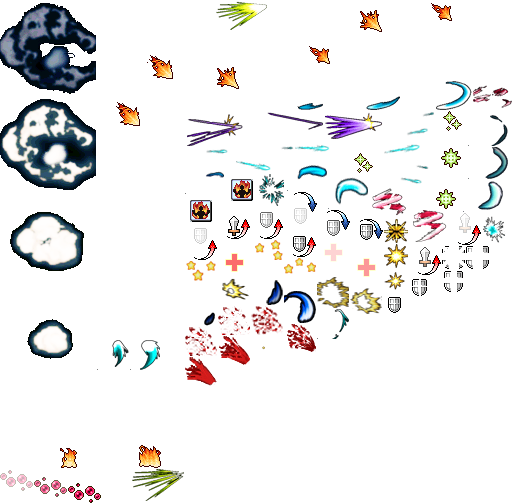
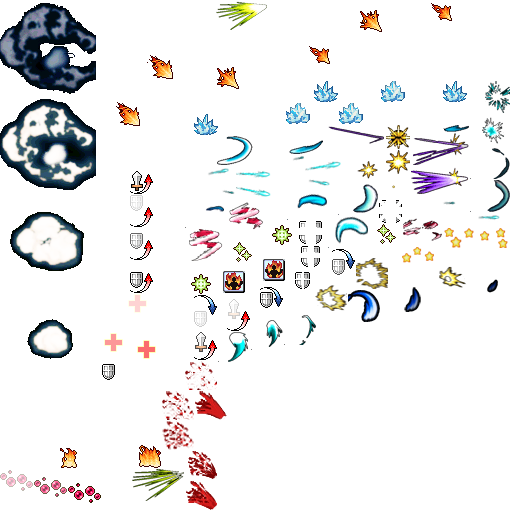
增加了冰锥推进

diff --git a/Gdx002/src/com/bsu/obj/Player.java b/Gdx002/src/com/bsu/obj/Player.java
@@ -56,7 +56,7 @@ public class Player {
 			RoleFactory rf = RoleFactory.getInstance();
 			playerRole.add(new Role(Role.Type.HERO,QUALITY.green,CLASSES.fighter,"测试人物",U.getRandom(100, -6, 6),8,10
 					,EquipFactory.getInstance().getWeaponByIdx(1),EquipFactory.getInstance().getArmorByIdx(1),
-					new SkillTree().getSkillTreeFixedSkill(65)
+					new SkillTree().getSkillTreeFixedSkill(66)
 					,GameTextureClass.getInstance().fc_photo));				//测试技能用
 			playerRole.add(rf.getFighter("fc", Role.Type.HERO, QUALITY.green,GameTextureClass.getInstance().fc_photo));
 //			playerRole.add(rf.getFighter("ss哈哈", Role.Type.HERO, QUALITY.blue,GameTextureClass.getInstance().zyc_photo));

diff --git a/Gdx002/src/com/bsu/tools/GameAnimationClass.java b/Gdx002/src/com/bsu/tools/GameAnimationClass.java
@@ -236,6 +236,14 @@ public class GameAnimationClass {
 			tr.add(texture_effect_skills.findRegion("stab",2));
 			tr.add(texture_effect_skills.findRegion("stab",3));
 			break;
+		case 66:
+			tr.add(texture_effect_skills.findRegion("s-66-",1));
+			tr.add(texture_effect_skills.findRegion("s-66-",2));
+			tr.add(texture_effect_skills.findRegion("s-66-",3));
+			tr.add(texture_effect_skills.findRegion("s-66-",4));
+			tr.add(texture_effect_skills.findRegion("s-66-",5));
+			tr.add(texture_effect_skills.findRegion("s-66-",6));
+			break;
 		default:
 			break;
 		}

diff --git a/Gdx002/src/com/bsu/make/SkillFactory.java b/Gdx002/src/com/bsu/make/SkillFactory.java
@@ -181,6 +181,7 @@ public class SkillFactory {
 		case 66:
 			skl = new Skill(i,"冰锥推进",QUALITY.purple,Type.p_damage,1.5f,0.3f,new CLASSES[]{CLASSES.wizard},"对前方横向3个格子所有敌人进行冰锥攻击",
 					new Vector2[] {new Vector2(1,0),new Vector2(2,0),new Vector2(3,0)});
+			skl.offset_ani_self = new Vector2(35,0);
 			break;
 		case 67:
 			skl = new Skill(i,"生命转移",QUALITY.purple,Type.f_shifhp,50f,30f,new CLASSES[]{CLASSES.cleric,CLASSES.sorcerer},"将前方3*3范围内的敌人的生命转移到己方",
